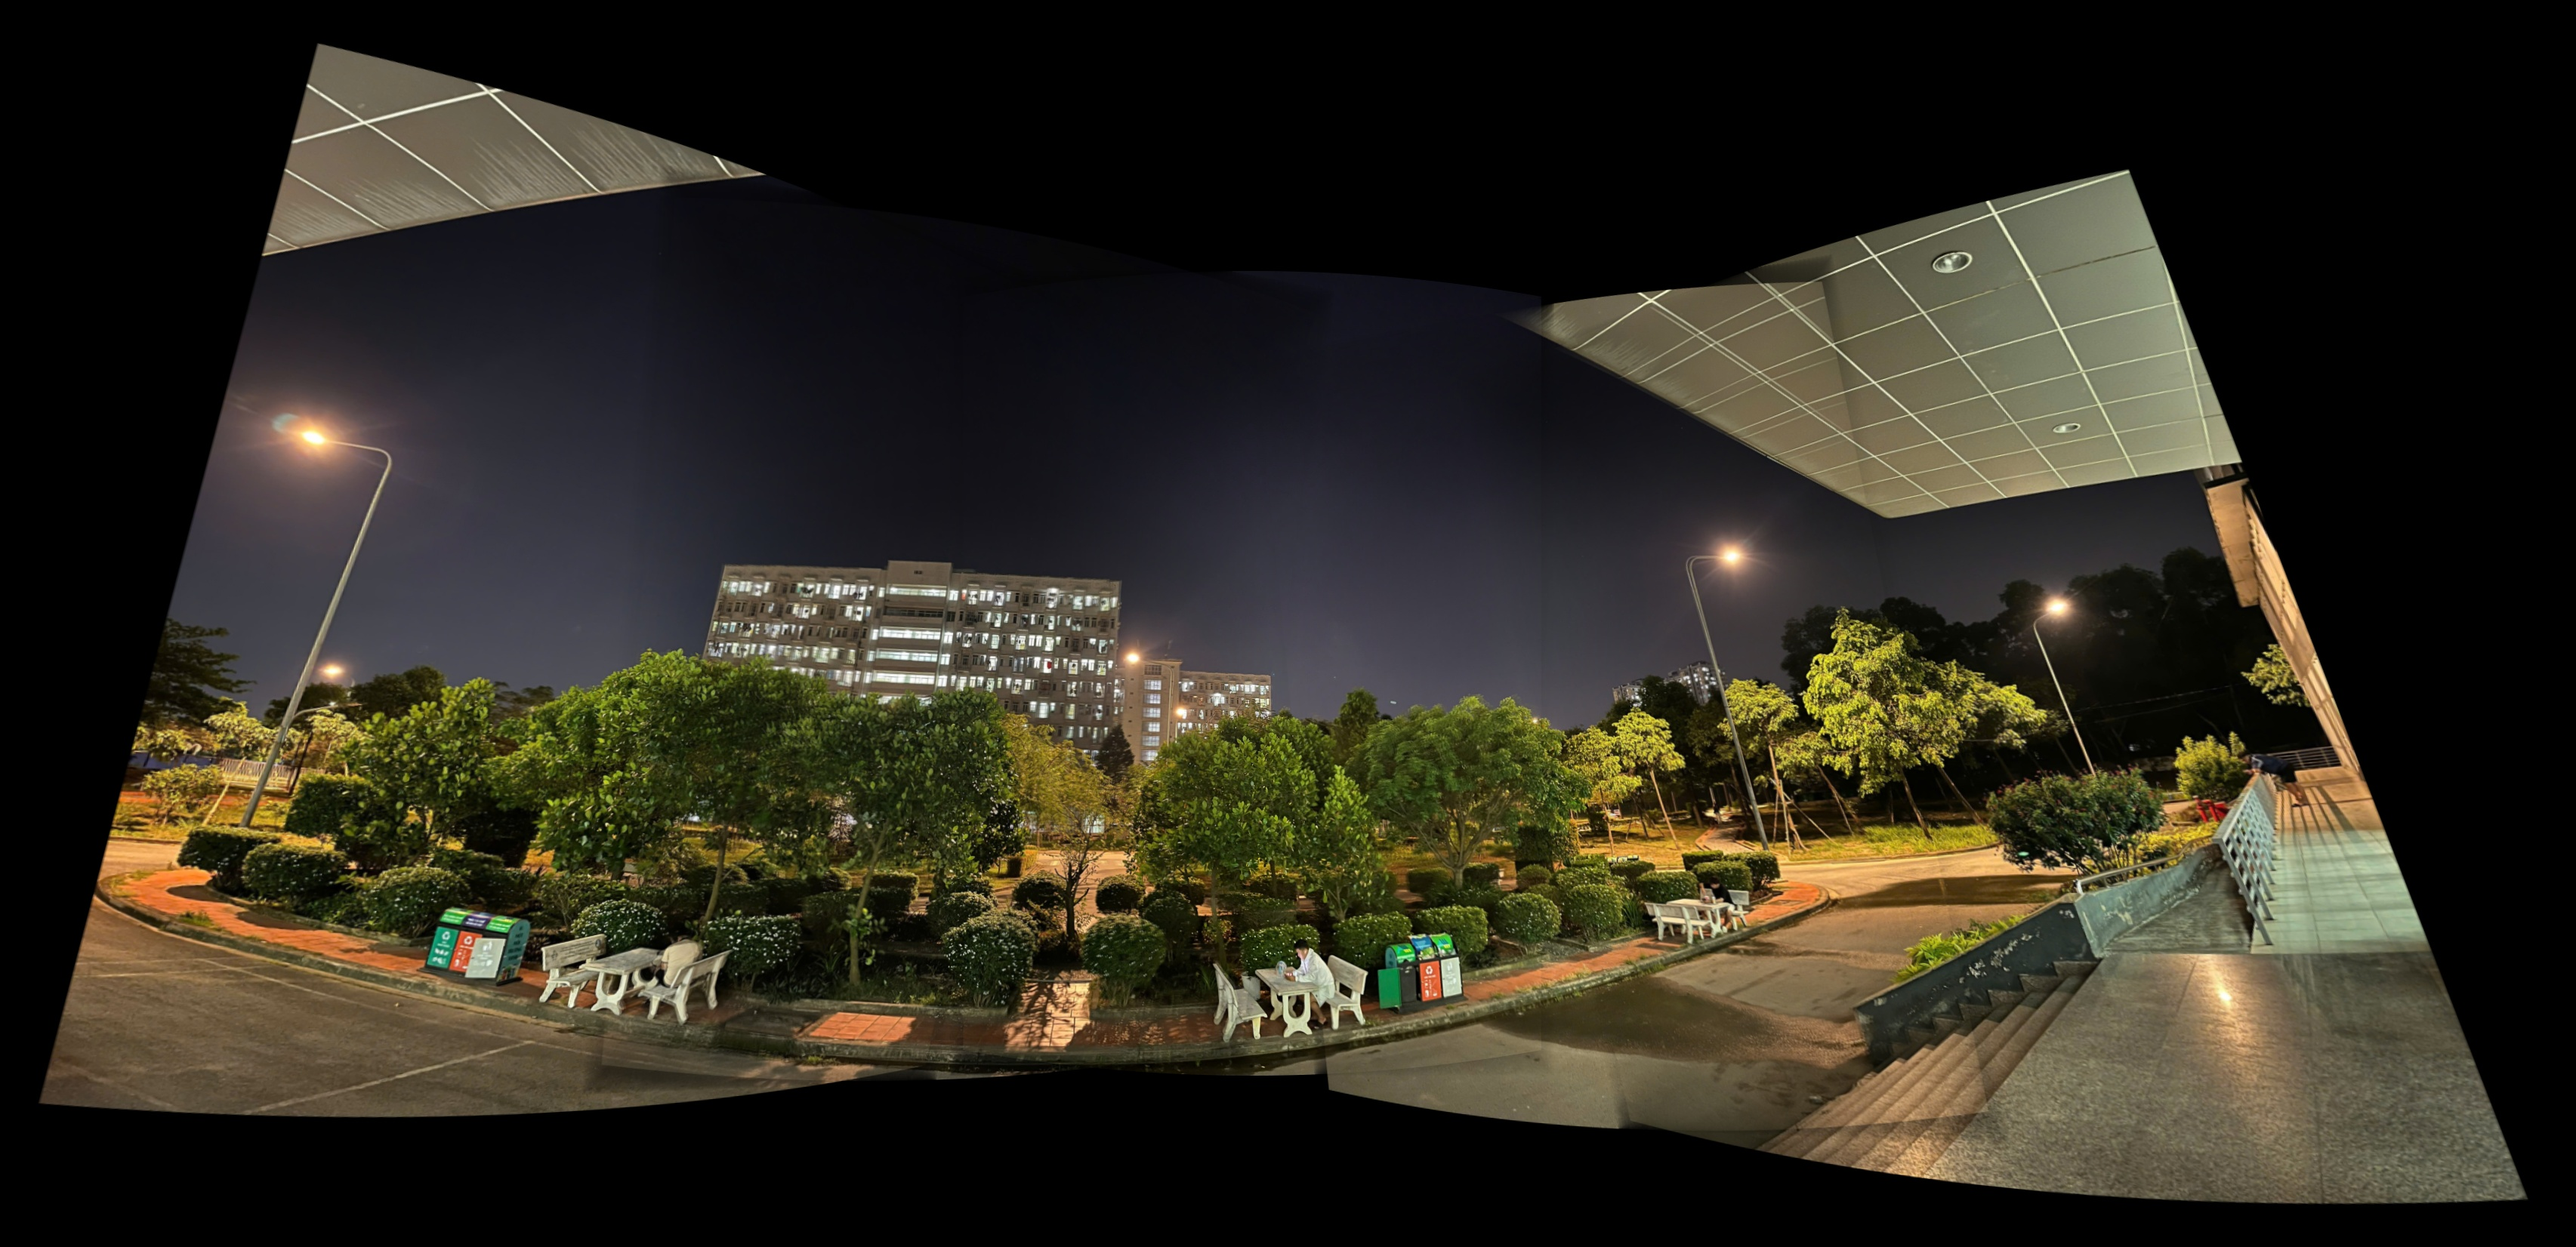
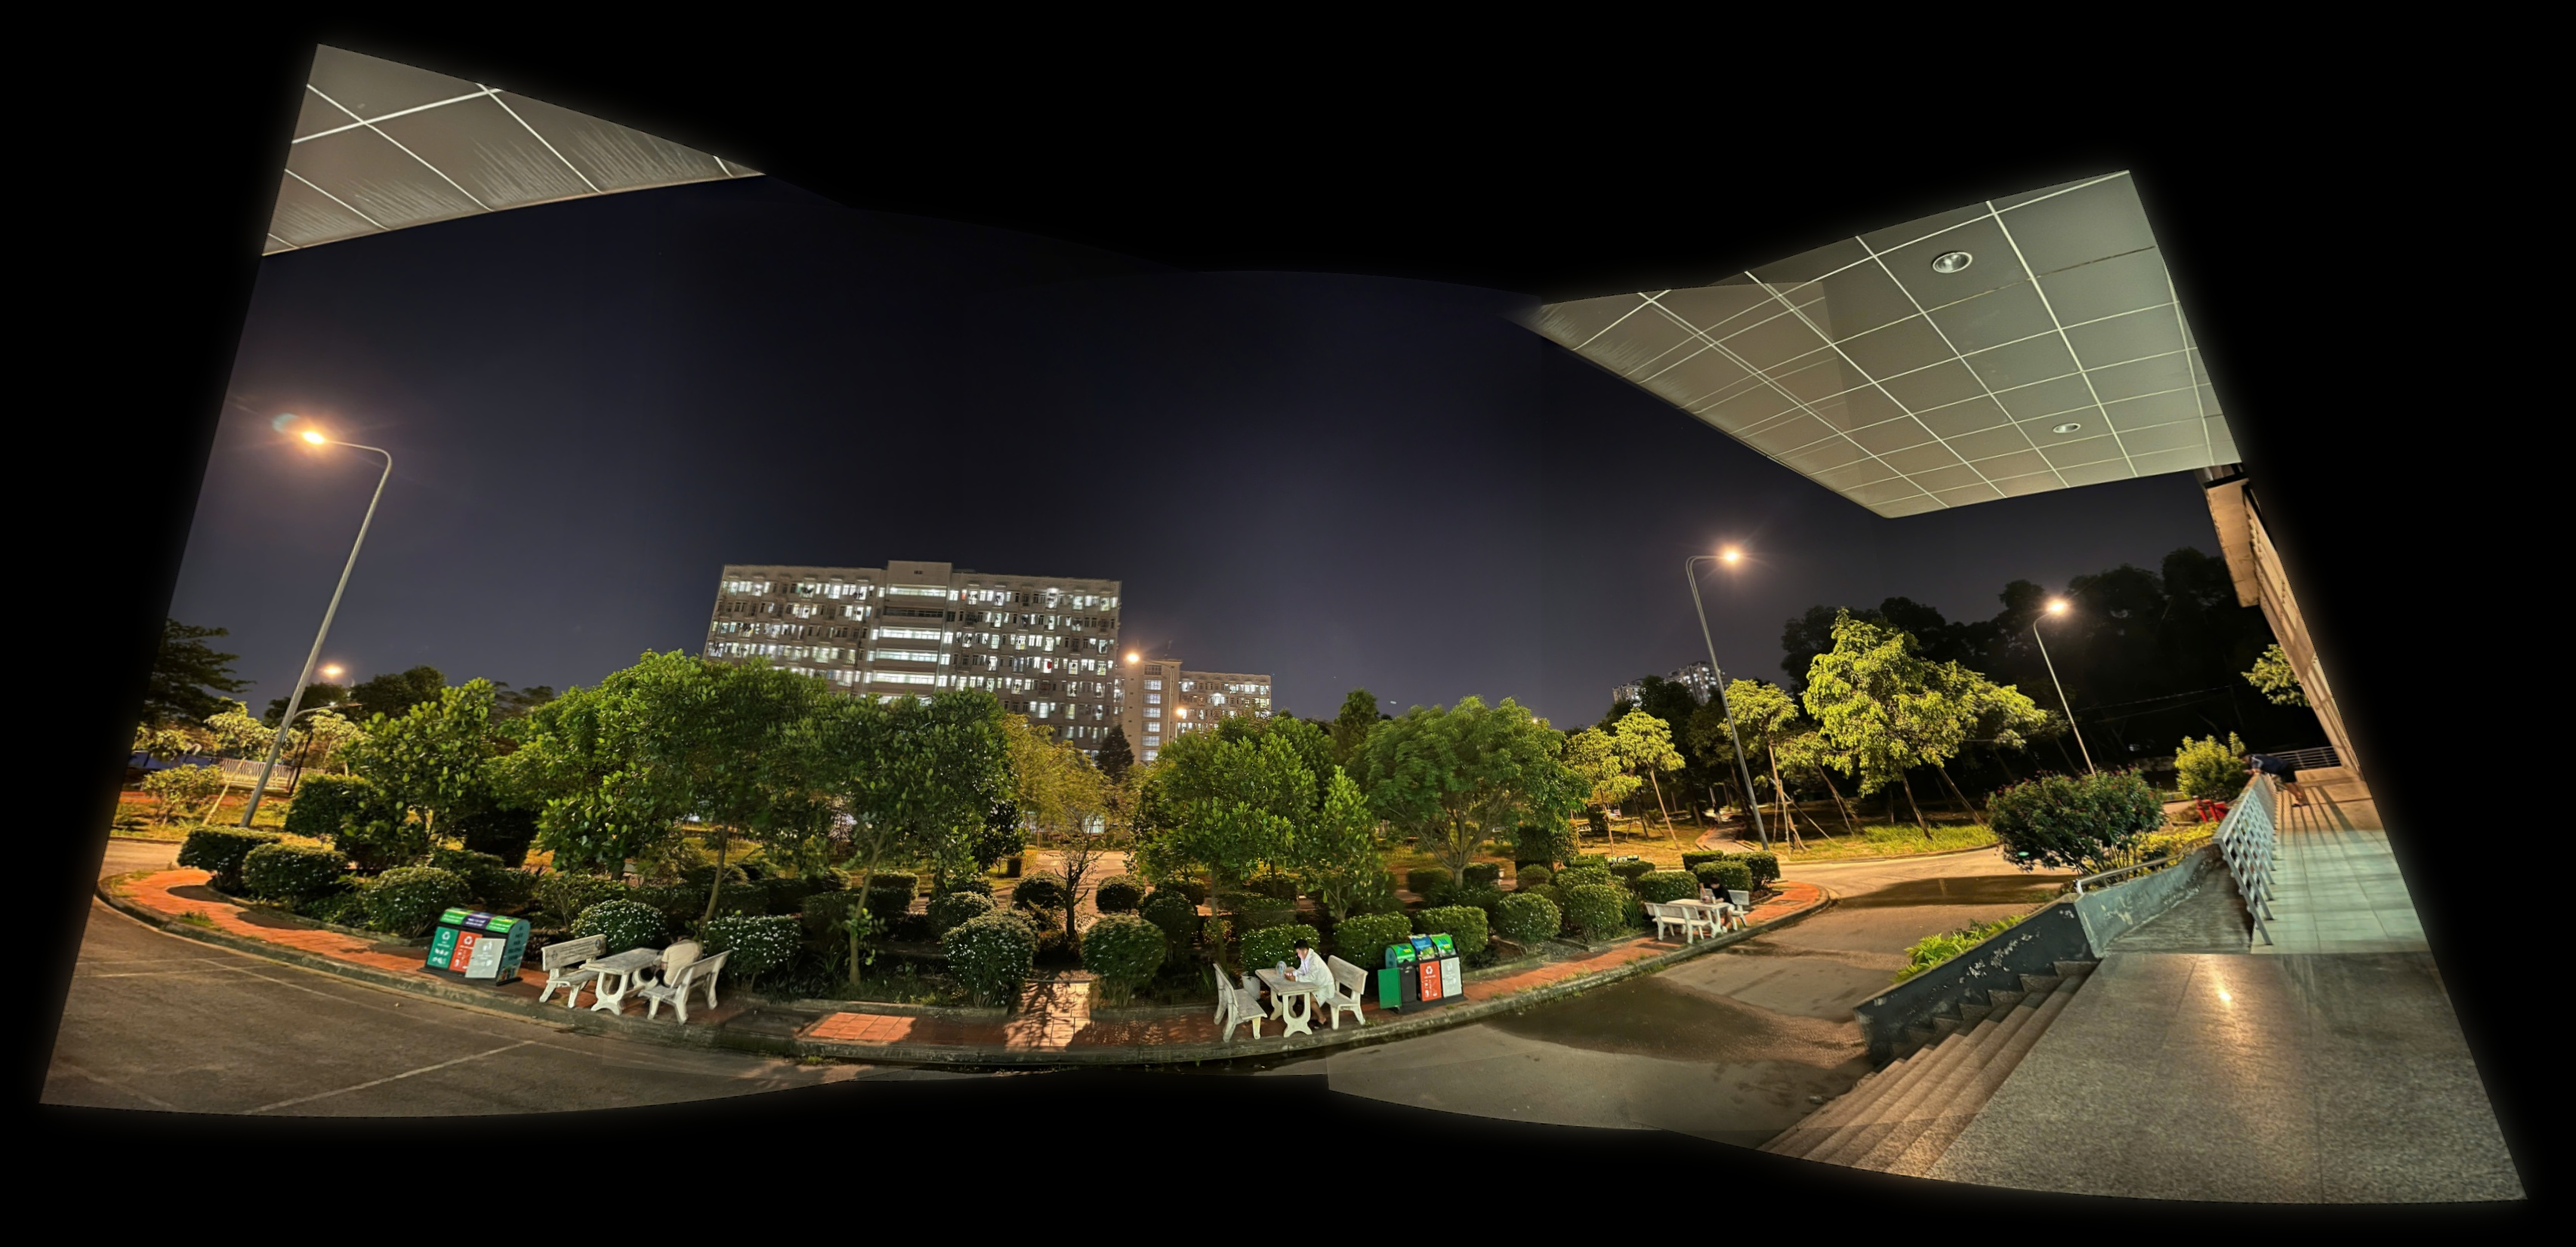
Add multiband_blend

diff --git a/src/core/blender.py b/src/core/blender.py
@@ -126,3 +126,120 @@ def create_weight_mask(
         dist = dist / dist.max()
     
     return dist.astype(np.float32)
+
+
+
+def multiband_blend(
+    warped_images: List[np.ndarray],
+    weight_masks: List[np.ndarray],
+    levels: int = 6
+) -> np.ndarray:
+    """
+    Blend multiple warped images using multiband (Laplacian pyramid) blending.
+ 
+    Parameters
+    ----------
+    warped_images : List[np.ndarray]
+        List of warped images on the same canvas
+    weight_masks : List[np.ndarray]
+        Weight masks for each image. Each mask should be normalized [0, 1]
+    levels : int, optional
+        Pyramid depth. Default is 6
+ 
+    Returns
+    -------
+    np.ndarray
+        Blended panorama with smooth transitions and no ghosting
+    """
+    if not warped_images:
+        raise ValueError("No images to blend")
+ 
+    if len(warped_images) != len(weight_masks):
+        raise ValueError("warped_images and weight_masks must have the same length")
+ 
+    canvas_h, canvas_w = warped_images[0].shape[:2]
+ 
+    min_dim = min(canvas_h, canvas_w)
+    max_levels = int(np.floor(np.log2(min_dim))) - 1
+    levels = min(levels, max_levels)
+ 
+    weight_stack = np.stack(weight_masks, axis=0)
+ 
+    for i, img in enumerate(warped_images):
+        valid = np.any(img > 0, axis=2).astype(np.float32)
+        weight_stack[i] *= valid
+ 
+    total = weight_stack.sum(axis=0, keepdims=True)
+    total = np.where(total > 0, total, 1.0)
+    norm_weights = weight_stack / total
+ 
+    blended_pyramid = None
+ 
+    for img, w_map in zip(warped_images, norm_weights):
+        w_3ch = np.stack([w_map] * 3, axis=2)
+ 
+        lap_img = _build_laplacian_pyramid(img.astype(np.float32), levels)
+        lap_w = _build_gaussian_pyramid(w_3ch, levels)
+ 
+        if blended_pyramid is None:
+            blended_pyramid = [np.zeros_like(l) for l in lap_img]
+ 
+        for lvl in range(levels):
+            blended_pyramid[lvl] += lap_img[lvl] * lap_w[lvl]
+ 
+    result = _reconstruct_from_laplacian(blended_pyramid)
+    return np.clip(result, 0, 255).astype(np.uint8)
+
+def create_weight_mask(
+    image_shape: Tuple[int, int],
+    H: np.ndarray,
+    canvas_size: Tuple[int, int]
+) -> np.ndarray:
+    h, w = image_shape[:2]
+    canvas_w, canvas_h = canvas_size
+ 
+    mask = np.ones((h, w), dtype=np.uint8) * 255
+    warped_mask = cv2.warpPerspective(
+        mask,
+        H,
+        (canvas_w, canvas_h),
+        flags=cv2.INTER_NEAREST
+    )
+ 
+    dist = cv2.distanceTransform(warped_mask, cv2.DIST_L2, cv2.DIST_MASK_5)
+    if dist.max() > 0:
+        dist = dist / dist.max()
+ 
+    return dist.astype(np.float32)
+ 
+ 
+def _build_gaussian_pyramid(
+    img: np.ndarray,
+    levels: int
+) -> List[np.ndarray]:
+    pyramid = [img.astype(np.float32)]
+    for _ in range(levels - 1):
+        pyramid.append(cv2.pyrDown(pyramid[-1]))
+    return pyramid
+ 
+ 
+def _build_laplacian_pyramid(
+    img: np.ndarray,
+    levels: int
+) -> List[np.ndarray]:
+    gauss = _build_gaussian_pyramid(img, levels)
+    lap = []
+    for i in range(levels - 1):
+        up = cv2.pyrUp(gauss[i + 1], dstsize=(gauss[i].shape[1], gauss[i].shape[0]))
+        lap.append(gauss[i] - up)
+    lap.append(gauss[-1])
+    return lap
+ 
+ 
+def _reconstruct_from_laplacian(
+    pyramid: List[np.ndarray]
+) -> np.ndarray:
+    result = pyramid[-1]
+    for lap in reversed(pyramid[:-1]):
+        result = cv2.pyrUp(result, dstsize=(lap.shape[1], lap.shape[0])) + lap
+    return result

diff --git a/src/pipeline.py b/src/pipeline.py
@@ -10,7 +10,7 @@ from core.matcher import match_features
 from core.homography import estimate_homography
 from core.cylindrical import cylindrical_projection
 from core.warp import warp_images_to_canvas
-from core.blender import voronoi_blend, alpha_blend, create_weight_mask
+from core.blender import voronoi_blend, alpha_blend, create_weight_mask, multiband_blend
 from utils import crop_black_borders
 
 
@@ -181,7 +181,7 @@ class PanoramaStitcher:
         
         # Step 7: Blend images
         print("\n[Step 7] Blending images using Alpha blending...")
-        panorama = alpha_blend(warped_images, weight_masks)
+        panorama = multiband_blend(warped_images, weight_masks)
         print("  Blending complete.")
 
         # Step 8: Crop black borders
